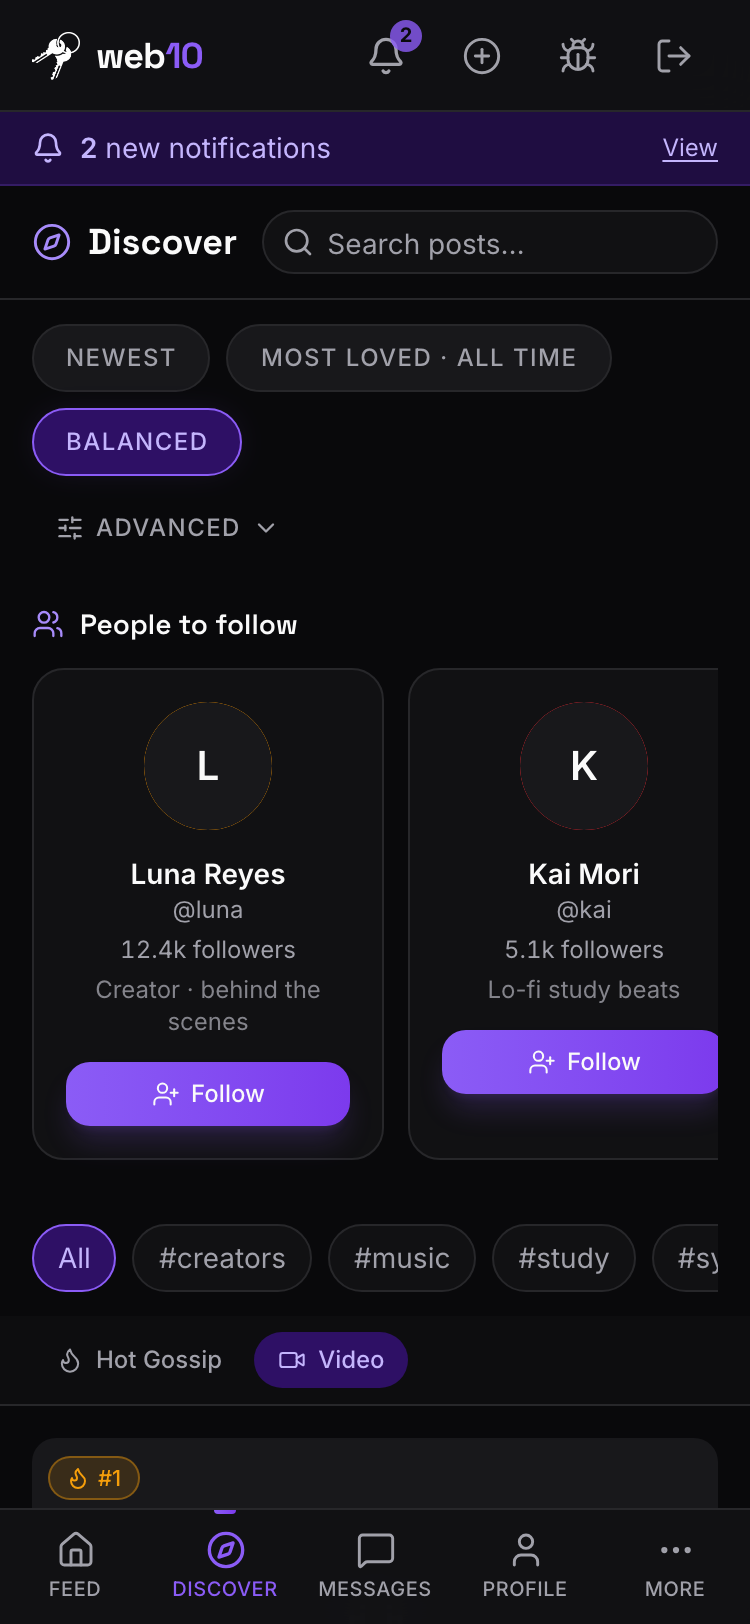
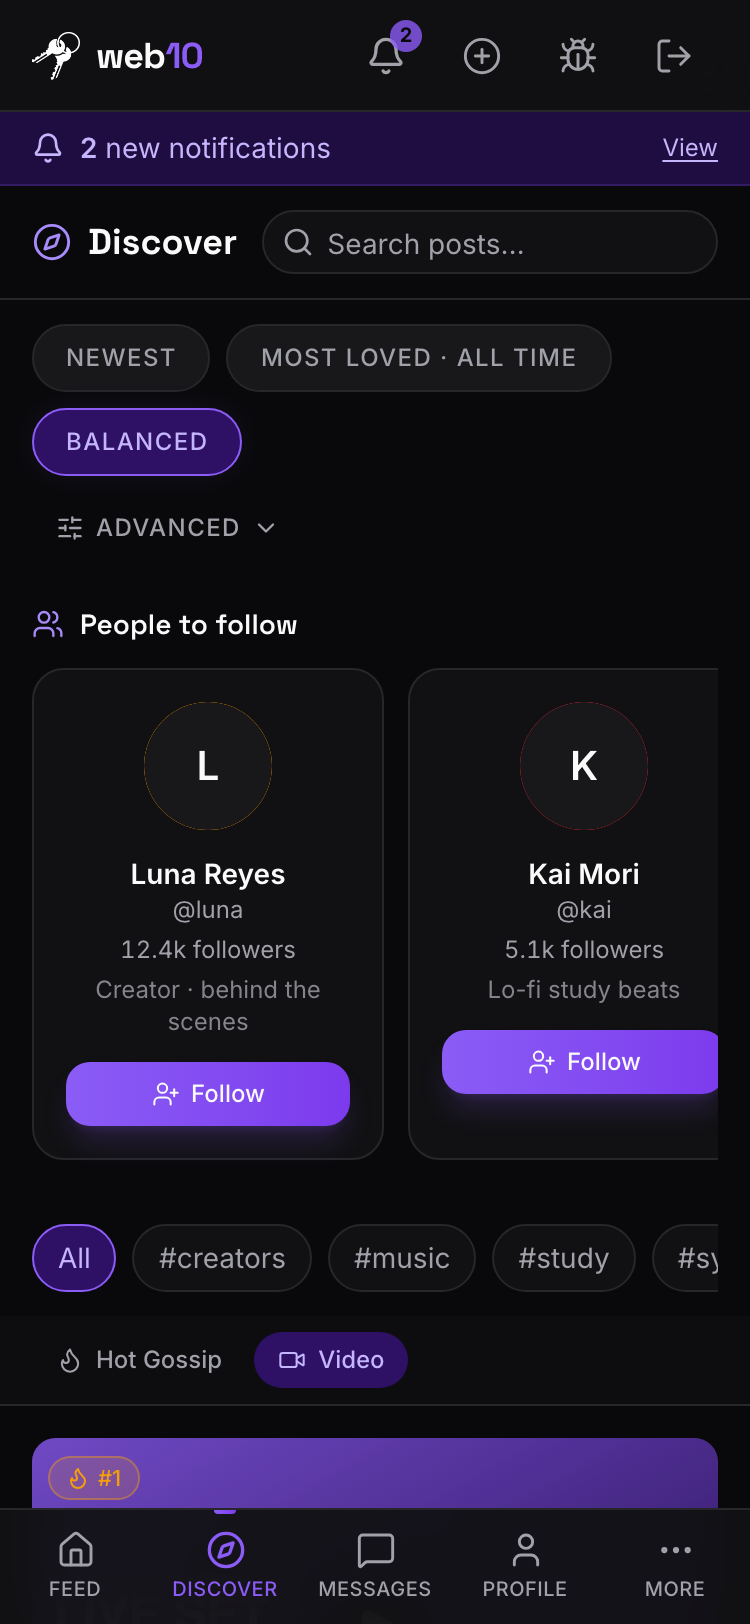
fix(web10-social): trending video posts stop rendering other posts' media (3.82.1)

Changed region(s): [[0.0307, 0.8621, 0.9813, 0.9544]]

diff --git a/marketing/web10-social/src/__tests__/discoverScreen.test.tsx b/marketing/web10-social/src/__tests__/discoverScreen.test.tsx
@@ -1160,4 +1160,87 @@ describe('DiscoverScreen', () => {
     fireEvent.click(screen.getByTestId('discover-youtube-card'));
     expect(screen.queryByTestId('post-lightbox')).not.toBeInTheDocument();
   });
+
+  // ── Media isolation: one author, multiple posts ──────────────────────────
+
+  it('each post keeps only its own media when one author has multiple posts (no cross-post leak)', async () => {
+    // The regression: the per-author ref accumulator aliased the first post's
+    // media_refs array and pushed the later posts' refs into it, so the first
+    // post's per-ref filter matched ALL of the author's media — the video
+    // post rendered a carousel of the other post's media (the "blacked out"
+    // trending tile: a transcoded video's raw source file, unplayable).
+    const videoPost = {
+      _id: 'p1',
+      author: 'creator',
+      provider: 'api.web10.app',
+      post_id: 'p1',
+      author_username: 'creator',
+      author_provider: 'api.web10.app',
+      text: 'Watch this',
+      tags: ['video'],
+      media_refs: ['m1'],
+      created_at: new Date().toISOString(),
+      likes: 10,
+      comments: 2,
+      reposts: 1,
+      score: 14,
+    };
+    const imagePost = {
+      _id: 'p2',
+      author: 'creator',
+      provider: 'api.web10.app',
+      post_id: 'p2',
+      author_username: 'creator',
+      author_provider: 'api.web10.app',
+      text: 'A photo',
+      tags: ['photography'],
+      media_refs: ['m2'],
+      created_at: new Date(Date.now() - 60000).toISOString(),
+      likes: 5,
+      comments: 1,
+      reposts: 0,
+      score: 7,
+    };
+    (data.readDiscoverFeed as ReturnType<typeof vi.fn>).mockResolvedValue([videoPost, imagePost]);
+    // The real resolver returns a record per requested ref — mirror that so
+    // the leak is observable (the buggy code requests BOTH refs for the
+    // author and the filter then matches both against the first post).
+    (data.resolveMediaRefs as ReturnType<typeof vi.fn>).mockImplementation(async (refs: (string | { doc_id?: string })[]) =>
+      refs.map((r) => {
+        const id = typeof r === 'string' ? r : r.doc_id || '';
+        return {
+          _id: id,
+          url: `https://cdn.example/${id}`,
+          mime_type: id === 'm1' ? 'video/mp4' : 'image/jpeg',
+          width: 1080,
+          height: 1920,
+          created_at: new Date().toISOString(),
+        };
+      }),
+    );
+
+    const { default: DiscoverScreen } = await import('@/components/Discover/DiscoverScreen');
+    render(
+      <MemoryRouter initialEntries={['/discover']}>
+        <DiscoverScreen />
+      </MemoryRouter>,
+    );
+
+    await waitFor(() => {
+      expect(screen.getAllByTestId('discover-card').length).toBe(2);
+    });
+
+    // The video post: its own single video, inline — NO carousel.
+    expect(screen.getByTestId('discover-media-video')).toBeInTheDocument();
+    expect(screen.queryByTestId('discover-media-carousel')).not.toBeInTheDocument();
+    const video = document.querySelector('video');
+    expect(video!.getAttribute('src')).toBe('https://cdn.example/m1');
+
+    // The image post: its own image.
+    const img = document.querySelector('img[src="https://cdn.example/m2"]');
+    expect(img).toBeTruthy();
+
+    // The first post's media_refs array is never mutated by the grouping.
+    expect(videoPost.media_refs).toEqual(['m1']);
+  });
 });

diff --git a/marketing/web10-social/src/components/Discover/DiscoverScreen.tsx b/marketing/web10-social/src/components/Discover/DiscoverScreen.tsx
@@ -972,7 +972,7 @@ export default function DiscoverScreen() {
             } else {
               byAuthor.set(key, {
                 posts: [p],
-                refs: p.media_refs || [],
+                refs: [...(p.media_refs || [])],
               });
             }
           }

diff --git a/knowledge/changelogs/CHANGELOG.md b/knowledge/changelogs/CHANGELOG.md
@@ -1,3 +1,6 @@
+3.82.1 || 11.09.2026
+fix(web10-social) + test(web10-social): **trending video posts stop rendering other posts' media — the "blacked out" tile** — operator: "on the trending tab, a posted video is blacked out dont know why, greyed out." **The root (an aliasing mutation in `DiscoverScreen.loadDiscover`):** the per-author media grouping built its ref accumulator as `refs: p.media_refs || []` — a **reference to the first post's own `media_refs` array** — and then `entry.refs.push(...)` for every later post by the same author, mutating that first post's array in place. The per-post filter that follows (`media.filter(m => postRefIds.has(m._id))`, built from the same now-polluted `p.media_refs`) then matched **all of the author's media against the first post**: a single-video post rendered a `MediaCarousel` of every other post's media by that author. The blackout itself: the carousel hardcodes video slides to the **raw source file** (`MediaCarousel.tsx` `type: 'file'`), and for a transcoded (D44) upload that source is the original camera file — typically HEVC/AV1, which Chromium cannot decode → a black, greyed-out tile (no poster, no playable first frame). It only bit when one author had **two or more media posts on the board** (your video + any other post of yours), which is why the feed (no per-author grouping) and single-post boards looked fine. **The fix:** copy the array when creating the author entry (`refs: [...(p.media_refs || [])]`) — the accumulator is now its own array, the posts' `media_refs` are never mutated, and the per-post filter matches only the post's own refs. **Test:** `discoverScreen.test.tsx` +1 regression (same author, a video post + an image post: the video post renders its own single inline video with **no carousel**, the image post renders its own image, and the first post's `media_refs` array is unmutated) — verified to fail on the pre-fix code. 495 web10-social tests green, `tsc --noEmit` clean. `screenshots/discover-{desktop,375}.png` + `discover-youtube-{desktop,375}.png` re-captured (the harness seed — nova with a single-ref post + a 3-ref post — is exactly the bug scenario; the old shot shows the leaked `1/3` carousel on the single-ref card).
+
 3.82.0 || 10.09.2026
 feature(web10-social) + test(web10-social) + docs(kb): **multi-media posts get a real inline carousel — the feed's dead count badge is gone** — the follow-up to 3.81.0 (the shared `<VideoPlayer>`). **The gap:** since the feed went inline (3.68.0), a multi-item post showed **only the first item** + a `pointer-events-none` count badge that promised "N" but did nothing — a regression (the lightbox carousel that used to reach items 2..N was dropped) and a dead affordance (design.md: "no dead anything"). Discover had the same first-item-only behavior. **The fix (KB-first — `video-player.md` updated):** a new shared `MediaCarousel` (`src/components/Feed/MediaCarousel.tsx`) — a **fixed frame** (explicit ratio, or the first item's natural ratio) + a **scroll-snap strip** of all the post's media + a **`1/N` position indicator** where the dead badge was. Video slides render through `<VideoPlayer fill>` (a new `fill` prop — the slide fills the frame, `w-full h-full`, no own aspect-ratio, still tap-to-play); image slides are `<img>`. The frame ratio is fixed up front so **swiping never shifts the layout** (design.md: "nothing shifts"). Both the feed's `MediaGrid` (single item unchanged; multi-item → carousel, `contain` + 60vh cap) and Discover's card (multi-item → carousel, `cover` + 16:9) compose it — the "no surface owns a `<video>`" rule holds. **Tests:** new `mediaCarousel.test.tsx` (4: every item renders as a slide; the `1/N` indicator shows for multi-item and is absent for single; a video slide renders through `<VideoPlayer fill>` and fills the frame; cover crops vs contain letterboxes) + the feed's "multi-media shows first item + count badge" test re-pinned to the carousel intent (all three items render, `1/3` indicator). 494 web10-social tests green, `tsc --noEmit` clean. **Still open (in the KB):** real YouTube embeds (data-model question before rendering).
 

diff --git a/knowledge/strategy/parallel-execution.md b/knowledge/strategy/parallel-execution.md
@@ -222,6 +222,7 @@ The decision bite gated the seam bites — docs first.
 - [✓ 3.79.3] Feed own-post owner menu restored (operator: "on the feed, i cant edit the posts like the discover and the profile, like delete edit"): the feed's `isOwnPost` compared `author_provider === token.provider`, but v3 `author_key` is the **bare username** (provider implicit) so `extractProvider` returns the v2 `'web10'` fallback — never the token's real provider — and the kebab (⋯) never rendered on own posts. Now keys off username alone (the KB's `author_key = token.username` rule). Discover/Profile only "worked" by skipping the check (lightbox `token !== null` fallback / hardcoded `isOwner`). `FeedScreen.tsx` + `socialScreens.test.tsx` (+1: the `'web10'`-fallback author still shows the menu) + harness feed seed gains an own post. 472 social tests green, `tsc` clean. `screenshots/feed-owner-menu-{desktop,375}.png`.
 - [✓ 3.79.4] Discover lightbox no longer offers edit/delete on other people's posts (follow-up to 3.79.3): the `PostLightbox` fallback was `isOwner = isOwnerProp ?? token !== null` — "a token exists, therefore I own this post." DiscoverScreen omits `isOwner`, so while signed in the lightbox showed Make private / Edit / Delete on *every* discover post (strangers' included). The fallback now derives ownership from the post's author (`token !== null && post.author_username === token.username`, the same v3 rule as the feed); DiscoverScreen unchanged, explicit-prop call sites untouched. `PostLightbox.tsx` + `postLightboxDelete.test.tsx` (+2: own post shows owner actions, someone else's shows none). 474 social tests green, `tsc` clean. `screenshots/discover-lightbox-{desktop,375}.png`.
 - [✓ 3.80.0] Video editor controls are live (operator: "the video edit controls are really not working well at all", Edit-video-sheet screenshot). The 3.66.0 editor worked but felt dead — picking a crop did nothing visible until Apply, the trim timeline was a static bar (no drag), the playhead crawled in 4Hz `timeupdate` steps, and the preview played the whole clip. Now: (1) **live crop preview** (the frame locks to the picked ratio + `object-cover` — the exact center crop the re-encode produces; Original = natural frame); (2) **draggable in/out handles** (pointer-drag, clamped to the other handle ± the 0.5s min trim so the window never inverts; the out-of-window regions are dimmed); (3) a **smooth rAF-driven playhead** (ref-updated DOM `left`, no 60fps re-renders); (4) **playback loops inside the selected window** so the preview shows exactly what ships. `VideoEditorSheet.tsx` + `videoEditor.test.tsx` +9. 480 social tests green, `tsc` clean.
+- [✓ 3.82.1] Trending video posts stop rendering other posts' media (operator: "on the trending tab, a posted video is blacked out dont know why, greyed out"). The per-author media grouping in `DiscoverScreen.loadDiscover` aliased the first post's `media_refs` array as its ref accumulator and `push`ed later posts' refs into it — mutating the first post — so the per-post filter matched ALL of the author's media against the first post (a single-video post rendered a carousel of the other post's media; the carousel's raw-source-file video slides are unplayable HEVC/AV1 for transcoded uploads → the black tile). Fix: copy the array (`refs: [...(p.media_refs || [])]`). `discoverScreen.test.tsx` +1 regression (same-author video+image posts keep their own media, no carousel, no mutation) — fails pre-fix. 495 social tests green, `tsc` clean.
 
 ### Lane: notifications (D69)
 **Owns:** `marketing/web10-social/src/data/notifications.ts`, `src/components/Notifications/`, `src/components/Social/Layout.tsx` (badge/bell), `src/App.tsx` (route + banner); cross-lane: `api/` + `sdk/` (the `getPendingRequests` read), `knowledge/knowledge-base/web10-social-v3/notifications.md` (the spec).
